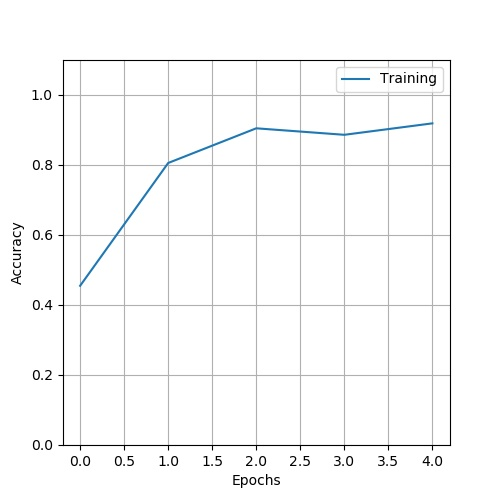
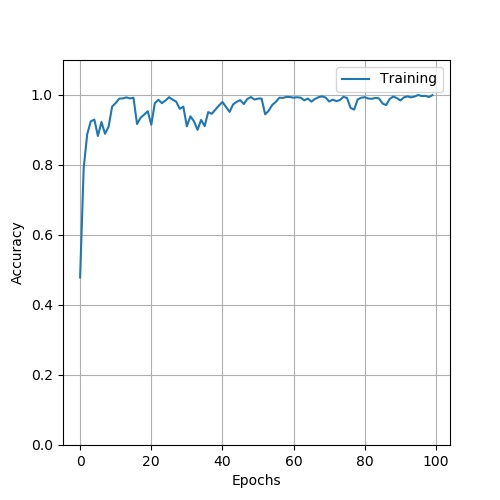
image

diff --git a/PCA_ResNet50.py b/PCA_ResNet50.py
@@ -320,7 +320,7 @@ def main():
     model = ResNet50(input_shape=(25, 25, 30), classes=16)
     model.compile(optimizer="adam", loss="categorical_crossentropy", metrics=["accuracy"])
 
-    history = model.fit(Xtrain, ytrain, epochs=5, batch_size=25)
+    history = model.fit(Xtrain, ytrain, epochs=100, batch_size=25)
     preds = model.evaluate(Xtest, ytest)
 
     plt.figure(figsize=(5,5))

diff --git a/README.md b/README.md
@@ -14,6 +14,7 @@ use SVM  and PCA_ResNet50 to classify HSI
     [PCA](https://blog.csdn.net/program_developer/article/details/80632779)
     [ResNet50_on_Keras](https://blog.csdn.net/u013733326/article/details/80250818)
     [HybridSN](https://github.com/gokriznastic/HybridSN)
+    ![test](https://raw.githubusercontent.com/liuyingbin19222/ImageData/master/zhaowei.jpeg)
 
 
 
